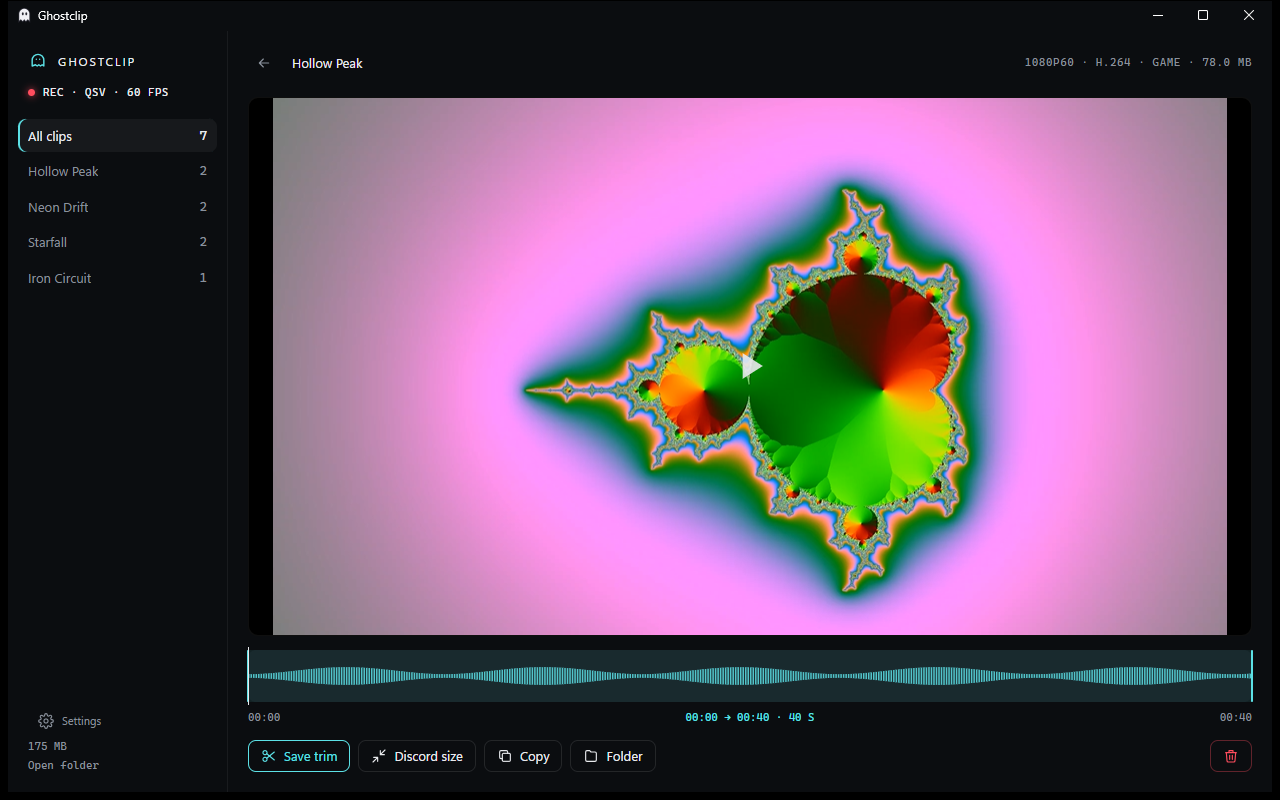
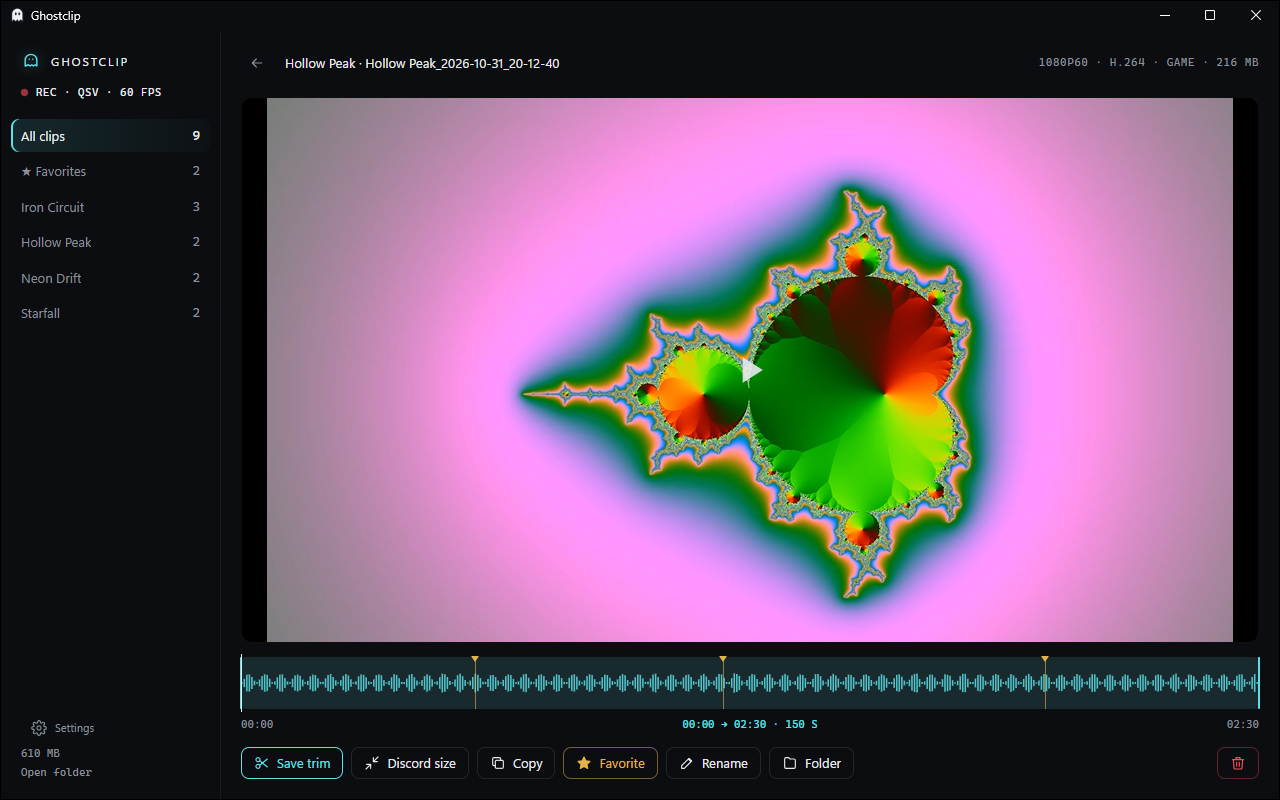
Update the website for 0.8
The features now cover session recording with bookmarks, screenshots,
Discord on its own track, favorites and renaming, the space limit and the
language option, in nine cards. The FAQ says where screenshots go and
mentions the space limit. Every new or changed text has its Portuguese
version.

New screenshots of the 0.8 library on made-up clips: the grid with
screenshots, favorites and a session, and that session open with its
bookmarks on the timeline. The social image uses the new grid.

diff --git a/site/main.js b/site/main.js
@@ -17,21 +17,27 @@ const pt = {
   'hero.notWindows': 'O Ghostclip roda no Windows. Abra esta página no PC em que você joga para baixar.',
   'cta.download': 'Baixar para Windows',
   'cta.source': 'Código no GitHub',
-  'img.library': 'A biblioteca do Ghostclip: clipes agrupados por jogo, com miniaturas, durações e o selo de gravação na barra lateral.',
-  'img.clip': 'Um clipe aberto na biblioteca: player de vídeo, linha do tempo sobre a forma de onda do áudio com o trecho do corte em ciano, e botões para salvar o corte, comprimir para o Discord, copiar e apagar.',
+  'img.library': 'A biblioteca do Ghostclip: clipes e capturas de tela por dia, com miniaturas, durações, favoritos marcados com estrela e uma sessão com três marcadores; a barra lateral lista os jogos, os favoritos e o selo de gravação.',
+  'img.clip': 'Uma sessão aberta na biblioteca: player de vídeo, linha do tempo sobre a forma de onda do áudio com três marcadores, e botões para salvar um corte, comprimir para o Discord, copiar, favoritar, renomear, mostrar na pasta e apagar.',
   'features.label': 'O QUE ELE FAZ',
   'f1.title': 'O último minuto a uma tecla de distância',
   'f1.text': 'O Ghostclip mantém um buffer contínuo da tela e do som. A hotkey salva esse trecho como MP4 numa pasta por jogo: seguro em milissegundos, gravado em menos de dois segundos, sem recodificar.',
   'f2.title': 'Só o som do jogo',
   'f2.text': 'Grave tudo o que você ouve ou só o jogo: sem a chamada do Discord, sem música. Ele segue o jogo que você está jogando, não a janela que estiver na frente.',
-  'f3.title': 'Seu microfone em faixa separada',
-  'f3.text': 'O microfone vai numa faixa de áudio própria, para você abaixar a sua voz depois. Desligue-o por jogo com um perfil.',
+  'f3.title': 'Microfone e Discord em faixas separadas',
+  'f3.text': 'O microfone vai numa faixa de áudio própria, para você abaixar a sua voz depois ou desligá-lo por jogo com um perfil. O som do app do Discord também pode ganhar uma faixa só dele, para silenciar a chamada depois.',
   'f4.title': 'Uma biblioteca para achar a melhor parte',
-  'f4.text': 'Todos os clipes por jogo, com miniaturas e player. Corte arrastando sobre a forma de onda do áudio: o corte começa num keyframe, então o que você vê é o que sai.',
+  'f4.text': 'Todos os clipes e capturas de tela por jogo, com miniaturas, player, favoritos e renomear. Corte arrastando sobre a forma de onda do áudio: o corte começa num keyframe, então o que você vê é o que sai.',
   'f5.title': 'Pronto para o Discord',
   'f5.text': 'Comprima qualquer clipe para caber no limite de upload do Discord, na GPU, com jogo e microfone mixados. Ou copie o arquivo e cole direto no chat.',
   'f6.title': 'Some quando você não precisa',
   'f6.text': 'A biblioteca é um processo à parte e só existe enquanto a janela está aberta. Em segundo plano ficam só o ícone na bandeja e o gravador.',
+  'f7.title': 'Sessões inteiras e capturas de tela',
+  'f7.text': '<kbd>Alt</kbd>+<kbd>F9</kbd> grava do início ao fim, e a tecla de clipe deixa marcadores na linha do tempo. Ele aproveita o buffer do replay em vez de rodar um segundo encoder, então o jogo não paga nada a mais. <kbd>Alt</kbd>+<kbd>F11</kbd> salva uma captura de tela junto dos clipes.',
+  'f8.title': 'Uma pasta que não enche o disco',
+  'f8.text': 'Defina um limite de espaço e, passando dele, os clipes e capturas mais antigos são apagados depois de cada gravação. Favoritos, clipes que você renomeou e arquivos que não são do Ghostclip nunca são tocados. Vem desligado.',
+  'f9.title': 'Em inglês ou português',
+  'f9.text': 'A bandeja, as notificações, a biblioteca e as configurações seguem o idioma do Windows, ou o que você escolher, e trocam assim que você salva, sem reiniciar a gravação.',
   'points.label': 'FEITO PARA NÃO CUSTAR NADA AO SEU JOGO',
   'points.1': '<strong>Sem injeção.</strong> Nenhuma DLL no jogo, nenhum hook de renderização, nenhuma leitura de memória, nenhum hook global de teclado. A captura usa o Desktop Duplication do próprio Windows.',
   'points.2': '<strong>Só GPU.</strong> NVENC, AMF ou QuickSync fazem a codificação. Não existe encoder de CPU como alternativa.',
@@ -52,8 +58,8 @@ const pt = {
   'faq.2a': 'O Ghostclip nunca toca no processo do jogo: sem injeção, sem hooks, sem acesso à memória. Ele grava a área de trabalho do mesmo jeito que a captura de tela do próprio Windows. É o tipo de gravador que os anti-cheats deixam em paz, mas nenhuma ferramenta pode garantir o que um jogo específico vai fazer.',
   'faq.3q': 'Do que eu preciso?',
   'faq.3a': 'Windows 10 2004 ou mais novo, ou Windows 11, e uma GPU com encoder de hardware: NVIDIA (NVENC), AMD (AMF) ou Intel (QuickSync). O instalador traz todo o resto, inclusive o .NET e o FFmpeg, e não pede permissão de administrador.',
-  'faq.4q': 'Para onde vão os clipes?',
-  'faq.4a': 'Para <code>Vídeos\\Ghostclip\\&lt;Jogo&gt;</code>, uma pasta por jogo. Dá para escolher outra pasta nas Configurações.',
+  'faq.4q': 'Para onde vão os clipes e as capturas de tela?',
+  'faq.4a': 'Para <code>Vídeos\\Ghostclip\\&lt;Jogo&gt;</code>, uma pasta por jogo, com as capturas junto dos clipes. Dá para escolher outra pasta nas Configurações e definir ali um limite de espaço, para que os clipes mais antigos abram lugar para os novos.',
   'faq.5q': 'Ele manda dados para algum lugar?',
   'faq.5a': 'O gravador não usa a rede. O app da bandeja consulta o GitHub Releases atrás de atualizações, e só. Não tem conta, telemetria nem anúncios.',
   'faq.6q': 'Como eu desinstalo?',

diff --git a/site/index.html b/site/index.html
@@ -57,7 +57,7 @@
     <p id="not-windows" class="meta note" data-i18n="hero.notWindows" hidden>Ghostclip runs on Windows. Open this page on your gaming PC to download it.</p>
 
     <figure class="shot">
-      <img src="img/library.png" width="1280" height="800" data-i18n-alt="img.library" alt="The Ghostclip library: clips grouped by game, with thumbnails, durations and a recording badge in the sidebar.">
+      <img src="img/library.png" width="1280" height="800" data-i18n-alt="img.library" alt="The Ghostclip library: clips and screenshots by day, with thumbnails, durations, starred favorites and a session with three bookmarks; the sidebar lists the games, the favorites and a recording badge.">
     </figure>
   </section>
 
@@ -69,20 +69,32 @@
         <p data-i18n="f1.text">Ghostclip keeps a rolling buffer of your screen and sound. The hotkey saves it as an MP4 in a folder per game: safe in milliseconds, written in under two seconds, never re-encoded.</p>
       </article>
       <article>
+        <h3 data-i18n="f7.title">Whole sessions and screenshots</h3>
+        <p data-i18n="f7.text"><kbd>Alt</kbd>+<kbd>F9</kbd> records from start to stop, and the clip key drops bookmarks on the timeline. It keeps the replay buffer instead of running a second encoder, so the game pays nothing extra. <kbd>Alt</kbd>+<kbd>F11</kbd> saves a screenshot next to your clips.</p>
+      </article>
+      <article>
         <h3 data-i18n="f2.title">Only your game's sound</h3>
         <p data-i18n="f2.text">Record everything you hear, or just the game: no Discord call, no music. It follows the game you play, not whatever window is in front.</p>
       </article>
       <article>
-        <h3 data-i18n="f3.title">Your mic on its own track</h3>
-        <p data-i18n="f3.text">The microphone is a separate audio track, so you can turn yourself down later. Mute it per game with a profile.</p>
+        <h3 data-i18n="f3.title">Mic and Discord on their own tracks</h3>
+        <p data-i18n="f3.text">The microphone is a separate audio track, so you can turn yourself down later, or mute it per game with a profile. The Discord app's sound can get a track of its own too, so a call can be muted after the fact.</p>
       </article>
       <article>
         <h3 data-i18n="f4.title">A library to find the good part</h3>
-        <p data-i18n="f4.text">Every clip by game, with thumbnails and a player. Trim by dragging over the audio waveform: the cut starts on a keyframe, so what you see is what you get.</p>
+        <p data-i18n="f4.text">Every clip and screenshot by game, with thumbnails, a player, favorites and renaming. Trim by dragging over the audio waveform: the cut starts on a keyframe, so what you see is what you get.</p>
       </article>
       <article>
         <h3 data-i18n="f5.title">Ready for Discord</h3>
         <p data-i18n="f5.text">Compress any clip to fit Discord's upload limit, on the GPU, with game and mic mixed. Or copy the file and paste it straight into a chat.</p>
+      </article>
+      <article>
+        <h3 data-i18n="f8.title">A folder that doesn't fill your disk</h3>
+        <p data-i18n="f8.text">Set a space limit, and past it the oldest clips and screenshots are deleted after each save. Favorites, clips you renamed and files Ghostclip didn't make are never touched. Off by default.</p>
+      </article>
+      <article>
+        <h3 data-i18n="f9.title">In English or Portuguese</h3>
+        <p data-i18n="f9.text">The tray, notifications, library and settings follow the language Windows uses, or the one you pick, and switch as soon as you save, without restarting recording.</p>
       </article>
       <article>
         <h3 data-i18n="f6.title">Gone when you don't need it</h3>
@@ -93,7 +105,7 @@
 
   <section class="split">
     <figure class="shot">
-      <img src="img/clip.png" width="1280" height="800" data-i18n-alt="img.clip" alt="A clip open in the library: video player, a timeline over the audio waveform with the trim range in cyan, and buttons to save the trim, compress for Discord, copy and delete." loading="lazy">
+      <img src="img/clip.png" width="1280" height="800" data-i18n-alt="img.clip" alt="A session open in the library: video player, a timeline over the audio waveform with three bookmarks, and buttons to save a trim, compress for Discord, copy, favorite, rename, show in folder and delete." loading="lazy">
     </figure>
     <div>
       <h2 class="label mono" data-i18n="points.label">BUILT TO COST YOUR GAME NOTHING</h2>
@@ -132,8 +144,8 @@
       <p data-i18n="faq.3a">Windows 10 2004 or later, or Windows 11, and a GPU with a hardware encoder: NVIDIA (NVENC), AMD (AMF) or Intel (QuickSync). The installer brings everything else, including .NET and FFmpeg, and needs no admin rights.</p>
     </details>
     <details>
-      <summary data-i18n="faq.4q">Where do my clips go?</summary>
-      <p data-i18n="faq.4a">To <code>Videos\Ghostclip\&lt;Game&gt;</code>, one folder per game. You can pick another folder in Settings.</p>
+      <summary data-i18n="faq.4q">Where do my clips and screenshots go?</summary>
+      <p data-i18n="faq.4a">To <code>Videos\Ghostclip\&lt;Game&gt;</code>, one folder per game, with screenshots next to the clips. You can pick another folder in Settings, and set a space limit there so the oldest clips make room for new ones.</p>
     </details>
     <details>
       <summary data-i18n="faq.5q">Does it phone home?</summary>
